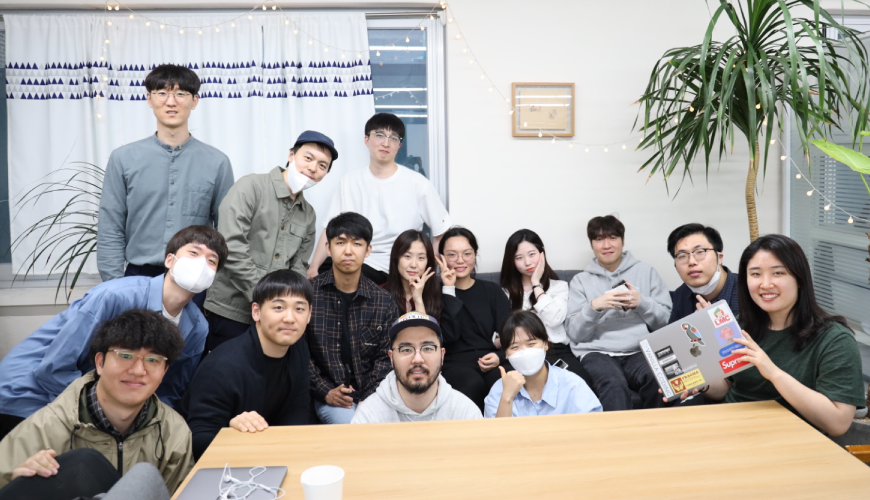
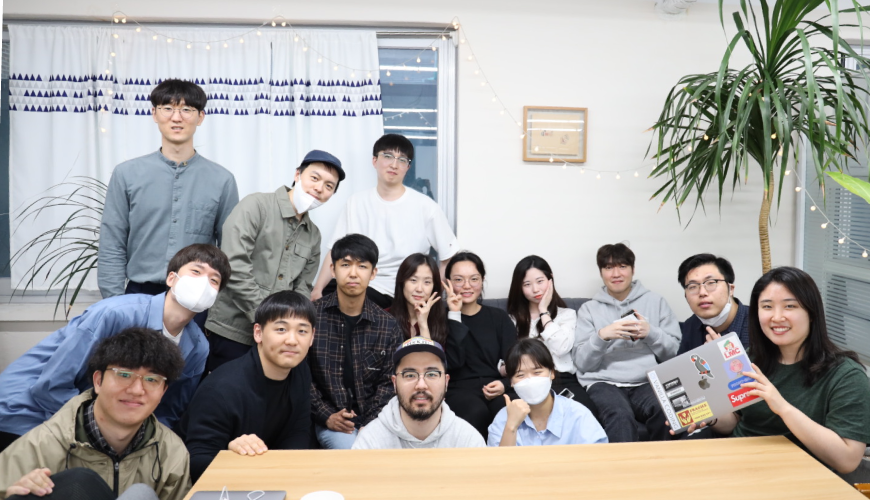
Done #2

diff --git a/src/App.css b/src/App.css
@@ -18,6 +18,12 @@ body {
 img {
   vertical-align: top;
 }
+.img-wrap {
+  width: 100%;
+}
+.img-wrap img {
+  width: 100%;
+}
 .swiper-container {
   box-sizing: border-box;
   width: 100%;
@@ -33,19 +39,21 @@ img {
   position: relative;
   background: no-repeat center center / cover;
 }
-.swiper-slide.first p {
+.group {
+  position: relative;
+}
+.group p {
   position: absolute;
-  font-size: 25px;
+  font-size: 20px;
   color: #fff;
   line-height: 1.5;
-  top: 15px;
+  top: 20px;
   left: 0;
   right: 0;
   padding: 0 15px;
   box-sizing: border-box;
   text-align: center;
   text-shadow: 0px 0px 3px rgba(0, 0, 0, 1), 0px 0px 3px rgba(0, 0, 0, 1), 0px 0px 3px rgba(0, 0, 0, 1);
-  
 }
 .content-wrap {
   display: flex;
@@ -79,6 +87,10 @@ img {
 @media screen and (max-width: 480px) {
   html, body, #root {
     height: auto;
+  }
+  .group p {
+    position: relative;
+    margin-top: 15px;
   }
   .content-wrap {
     width: 100%;

diff --git a/src/App.js b/src/App.js
@@ -19,14 +19,16 @@ function App() {
   return (
     <div className="swiper-container">
         <div className="swiper-wrapper">
-        <div
-          className="swiper-slide first"
-          style={{ backgroundImage: `url(${groupImg})`}}
-        >
-          <p>
-            여기까지 오게 된 것은 모두 켄님 덕분입니다. Special thanks to ken.<br />
-            2020.01.06 ~ 05.09 바닐라코딩 7기, 스승의 날
-          </p>
+        <div className="swiper-slide">
+          <div className="group">
+            <div className="img-wrap">
+              <img src={groupImg} alt="Bye Vanilla" />
+            </div>
+            <p>
+              여기까지 오게 된 것은 모두 켄님 덕분입니다. Special thanks to ken.<br />
+              2020.01.06 ~ 05.09 바닐라코딩 7기, 스승의 날
+            </p>
+          </div>
         </div>
           {
             letters.map(letter => {
